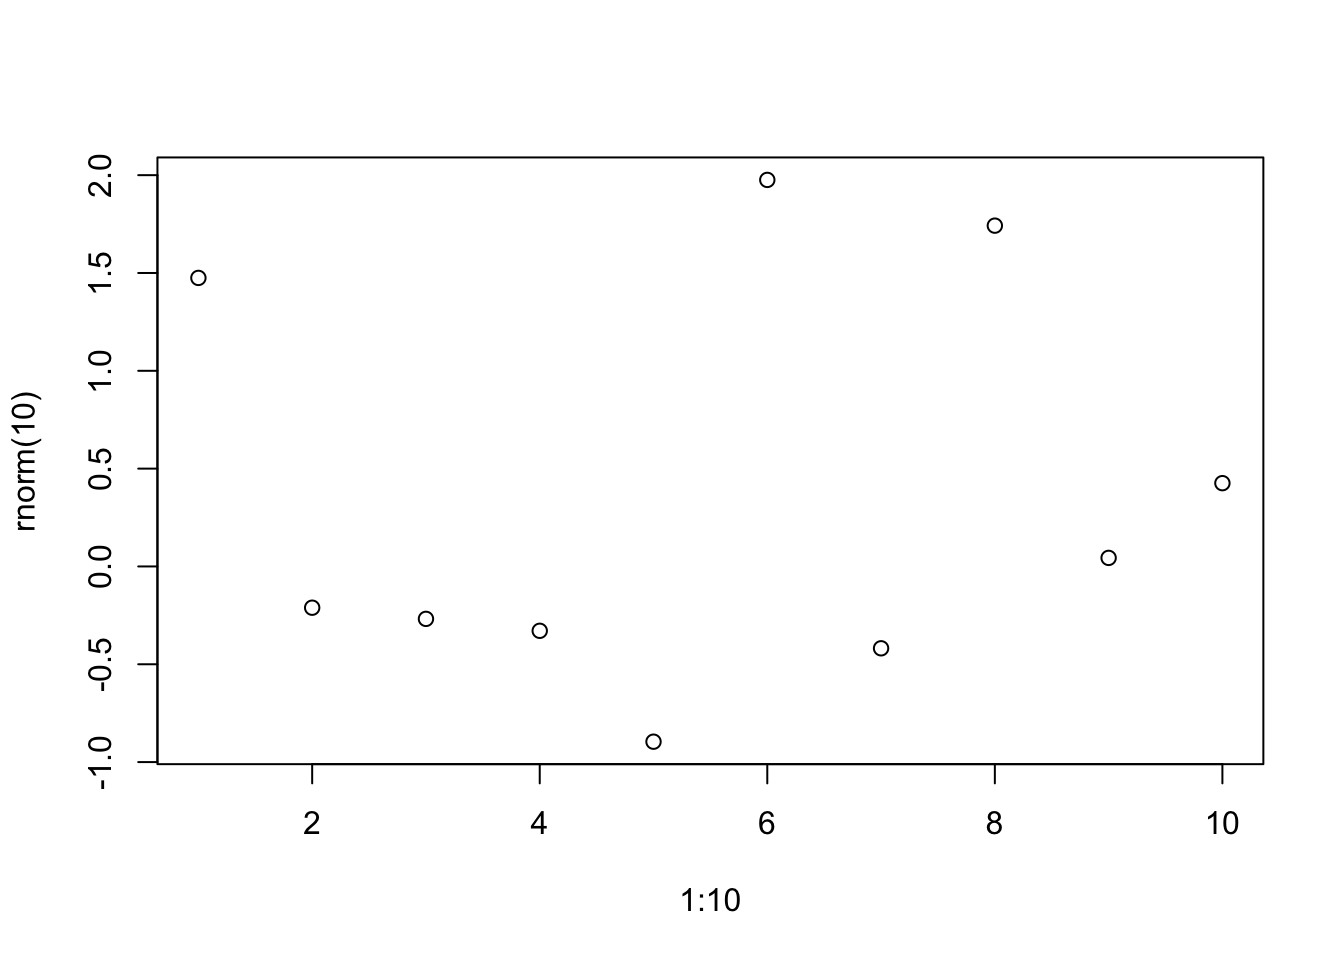
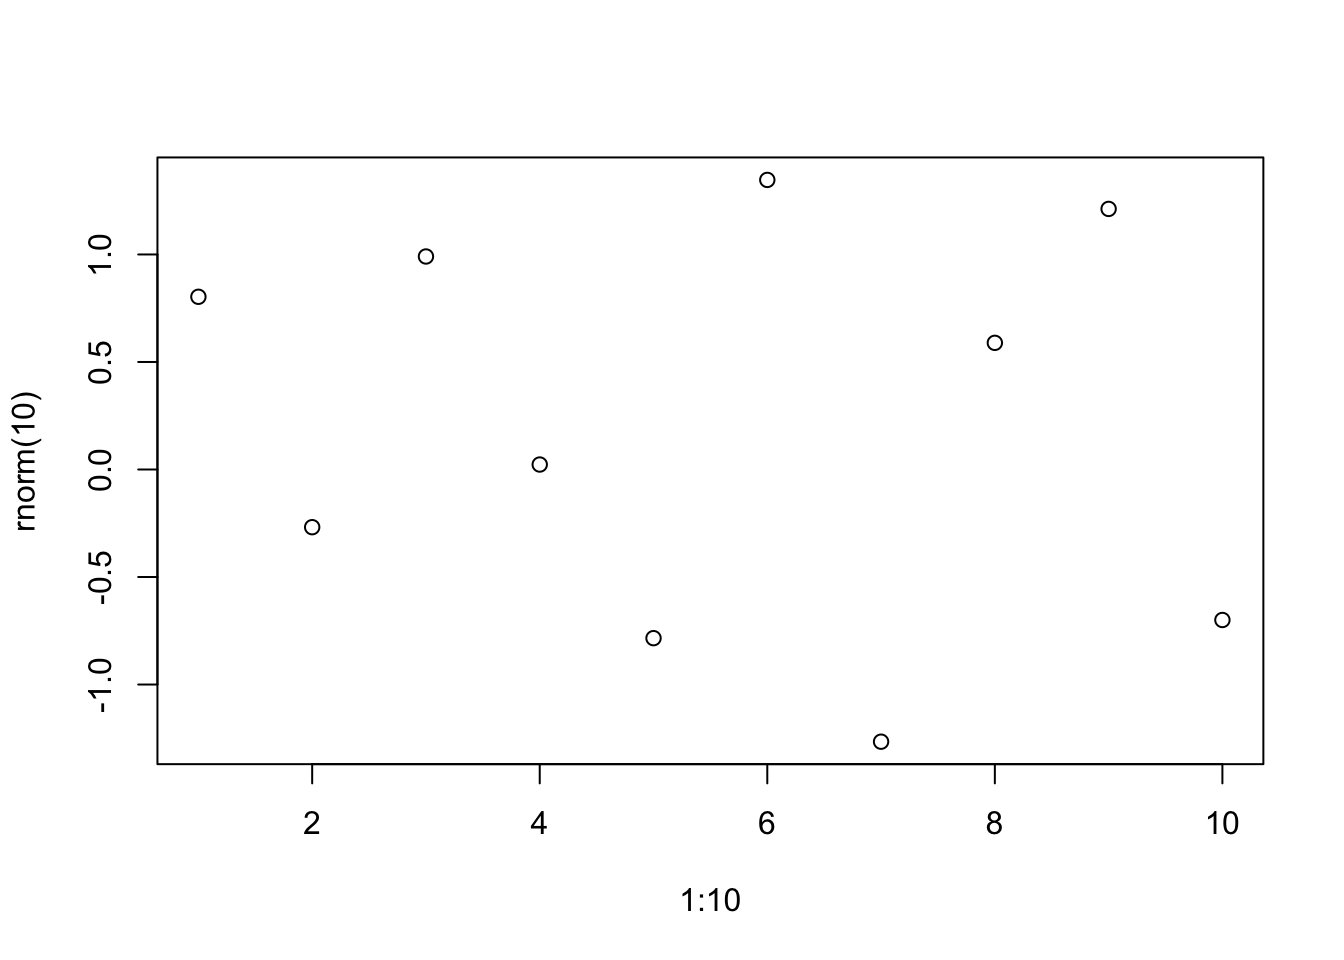
quarto_extensions post updated again v2.6, trying to make python code work in quarto

diff --git a/docs/posts/quarto_extensions/index.html b/docs/posts/quarto_extensions/index.html
@@ -266,46 +266,47 @@ extensions:
 </section>
 <section id="lightbox" class="level2">
 <h2 class="anchored" data-anchor-id="lightbox">Lightbox</h2>
-<p>Allow photos to appear in separate popup (and a bit of zoom-in on photos), no need of installation as this extension is now part of deafult installation.<br>
-<a href="https://github.com/quarto-ext/lightbox">Light box</a></p>
+<p>Allow photos to appear in separate popup (and a bit of zoom-in on photos), no need of installation as this extension is now part of deafult installation. You can read more about at <a href="https://github.com/quarto-ext/lightbox">Light box repo</a></p>
 <p>An example below</p>
 <div class="quarto-figure quarto-figure-center">
 <figure class="figure">
-<p><a href="quarto_extension1.png" class="lightbox" data-gallery="quarto-lightbox-gallery-1" title="A Lovely Image"><img src="quarto_extension1.png" class="img-fluid figure-img" alt="A Lovely Image"></a></p>
-<figcaption>A Lovely Image</figcaption>
+<p><a href="quarto_extension1.png" class="lightbox" data-gallery="quarto-lightbox-gallery-1" title="Image using lightbox extension"><img src="quarto_extension1.png" class="img-fluid figure-img" alt="Image using lightbox extension"></a></p>
+<figcaption>Image using lightbox extension</figcaption>
 </figure>
 </div>
-<p>The best part is that it can be used with code block as well, see the code block below (note R extension is needed for VSCode)</p>
+<p>The best part is that it can be used with code block as well, see the code block below. Note you also need <a href="https://marketplace.visualstudio.com/items?itemName=REditorSupport.r">R</a> extension to run R code in VSCode. Of course, you need to install R on your machine + rmarkdown and languageserver package in R by using <code>install.packages("rmarkdown")</code>.</p>
+<pre><code>#| fig-cap: Simple demo R plot 
+#| lightbox:
+#|   group: r-graph
+#|   description: This is 1 to 10 plot
+plot(1:10, rnorm(10))</code></pre>
 <div class="cell">
-<div class="code-copy-outer-scaffold"><div class="sourceCode cell-code" id="cb4"><pre class="sourceCode r code-with-copy"><code class="sourceCode r"><span id="cb4-1"><a href="#cb4-1" aria-hidden="true" tabindex="-1"></a><span class="fu">plot</span>(<span class="dv">1</span><span class="sc">:</span><span class="dv">10</span>, <span class="fu">rnorm</span>(<span class="dv">10</span>))</span></code></pre></div><button title="Copy to Clipboard" class="code-copy-button"><i class="bi"></i></button></div>
+<div class="code-copy-outer-scaffold"><div class="sourceCode cell-code" id="cb5"><pre class="sourceCode r code-with-copy"><code class="sourceCode r"><span id="cb5-1"><a href="#cb5-1" aria-hidden="true" tabindex="-1"></a><span class="fu">plot</span>(<span class="dv">1</span><span class="sc">:</span><span class="dv">10</span>, <span class="fu">rnorm</span>(<span class="dv">10</span>))</span></code></pre></div><button title="Copy to Clipboard" class="code-copy-button"><i class="bi"></i></button></div>
 <div class="cell-output-display">
 <div class="quarto-figure quarto-figure-center">
 <figure class="figure">
-<p><a href="index_files/figure-html/unnamed-chunk-1-1.png" class="lightbox" data-gallery="r-graph" data-glightbox="description: .lightbox-desc-2;title:Simple demo R plot;" title="Simple demo R plot"><img src="index_files/figure-html/unnamed-chunk-1-1.png" class="img-fluid figure-img" width="672" alt="Simple demo R plot"></a></p>
+<p><a href="index_files/figure-html/unnamed-chunk-1-1.png" class="lightbox" data-glightbox="description: .lightbox-desc-2;title:Simple demo R plot;" data-gallery="r-graph" title="Simple demo R plot"><img src="index_files/figure-html/unnamed-chunk-1-1.png" class="img-fluid figure-img" width="672" alt="Simple demo R plot"></a></p>
 <figcaption>Simple demo R plot</figcaption>
 </figure>
 </div>
 </div>
 </div>
-<p>Python require jupyter extension</p>
-<pre><code>
-import matplotlib.pyplot as plt
-
-# 1. Prepare data (if only one list is provided, it is used for the y-axis, 
-#    and the x-axis defaults to the index starting at 0)
-y_values = [1, 4, 2, 3]
-
-# 2. Create and customize the plot
-plt.plot(y_values) # Plots the data on the Axes
-plt.xlabel('X-axis Label') # Adds a label to the x-axis
-plt.ylabel('Y-axis Label') # Adds a label to the y-axis
-plt.title('My Simple Matplotlib Plot') # Adds a title
-plt.grid(True) # Adds a grid for better visualization
-
-# 3. Display the plot
-plt.show() # Shows the figure window
-
-</code></pre>
+<p>Python require jupyter extension (working)</p>
+<div class="code-copy-outer-scaffold"><div class="sourceCode" id="cb6"><pre class="sourceCode python code-with-copy"><code class="sourceCode python"><span id="cb6-1"><a href="#cb6-1" aria-hidden="true" tabindex="-1"></a><span class="im">import</span> matplotlib.pyplot <span class="im">as</span> plt</span>
+<span id="cb6-2"><a href="#cb6-2" aria-hidden="true" tabindex="-1"></a></span>
+<span id="cb6-3"><a href="#cb6-3" aria-hidden="true" tabindex="-1"></a><span class="co"># 1. Prepare data (if only one list is provided, it is used for the y-axis, </span></span>
+<span id="cb6-4"><a href="#cb6-4" aria-hidden="true" tabindex="-1"></a><span class="co">#    and the x-axis defaults to the index starting at 0)</span></span>
+<span id="cb6-5"><a href="#cb6-5" aria-hidden="true" tabindex="-1"></a>y_values <span class="op">=</span> [<span class="dv">1</span>, <span class="dv">4</span>, <span class="dv">2</span>, <span class="dv">3</span>]</span>
+<span id="cb6-6"><a href="#cb6-6" aria-hidden="true" tabindex="-1"></a></span>
+<span id="cb6-7"><a href="#cb6-7" aria-hidden="true" tabindex="-1"></a><span class="co"># 2. Create and customize the plot</span></span>
+<span id="cb6-8"><a href="#cb6-8" aria-hidden="true" tabindex="-1"></a>plt.plot(y_values) <span class="co"># Plots the data on the Axes</span></span>
+<span id="cb6-9"><a href="#cb6-9" aria-hidden="true" tabindex="-1"></a>plt.xlabel(<span class="st">'X-axis Label'</span>) <span class="co"># Adds a label to the x-axis</span></span>
+<span id="cb6-10"><a href="#cb6-10" aria-hidden="true" tabindex="-1"></a>plt.ylabel(<span class="st">'Y-axis Label'</span>) <span class="co"># Adds a label to the y-axis</span></span>
+<span id="cb6-11"><a href="#cb6-11" aria-hidden="true" tabindex="-1"></a>plt.title(<span class="st">'My Simple Matplotlib Plot'</span>) <span class="co"># Adds a title</span></span>
+<span id="cb6-12"><a href="#cb6-12" aria-hidden="true" tabindex="-1"></a>plt.grid(<span class="va">True</span>) <span class="co"># Adds a grid for better visualization</span></span>
+<span id="cb6-13"><a href="#cb6-13" aria-hidden="true" tabindex="-1"></a></span>
+<span id="cb6-14"><a href="#cb6-14" aria-hidden="true" tabindex="-1"></a><span class="co"># 3. Display the plot</span></span>
+<span id="cb6-15"><a href="#cb6-15" aria-hidden="true" tabindex="-1"></a>plt.show() <span class="co"># Shows the figure window</span></span></code></pre></div><button title="Copy to Clipboard" class="code-copy-button"><i class="bi"></i></button></div>
 </section>
 <section id="quarto-quizdown" class="level2">
 <h2 class="anchored" data-anchor-id="quarto-quizdown">quarto-quizdown</h2>

diff --git a/docs/index.html b/docs/index.html
@@ -239,7 +239,7 @@ window.Quarto = {
     </div>
 </div>
 <div class="list quarto-listing-default">
-<div class="quarto-post image-right" data-index="0" data-categories="UXVhcnRvJTJDRXh0ZW5zaW9ucw==" data-listing-date-sort="1761858000000" data-listing-file-modified-sort="1767275442008" data-listing-date-modified-sort="1767214800000" data-listing-reading-time-sort="3" data-listing-word-count-sort="598">
+<div class="quarto-post image-right" data-index="0" data-categories="UXVhcnRvJTJDRXh0ZW5zaW9ucw==" data-listing-date-sort="1761858000000" data-listing-file-modified-sort="1767299424642" data-listing-date-modified-sort="1767214800000" data-listing-reading-time-sort="4" data-listing-word-count-sort="609">
 <div class="thumbnail"><a href="./posts/quarto_extensions/index.html" class="no-external">
 
 <img loading="lazy" src="./posts/quarto_extensions/quarto_extension1.png" class="thumbnail-image">
